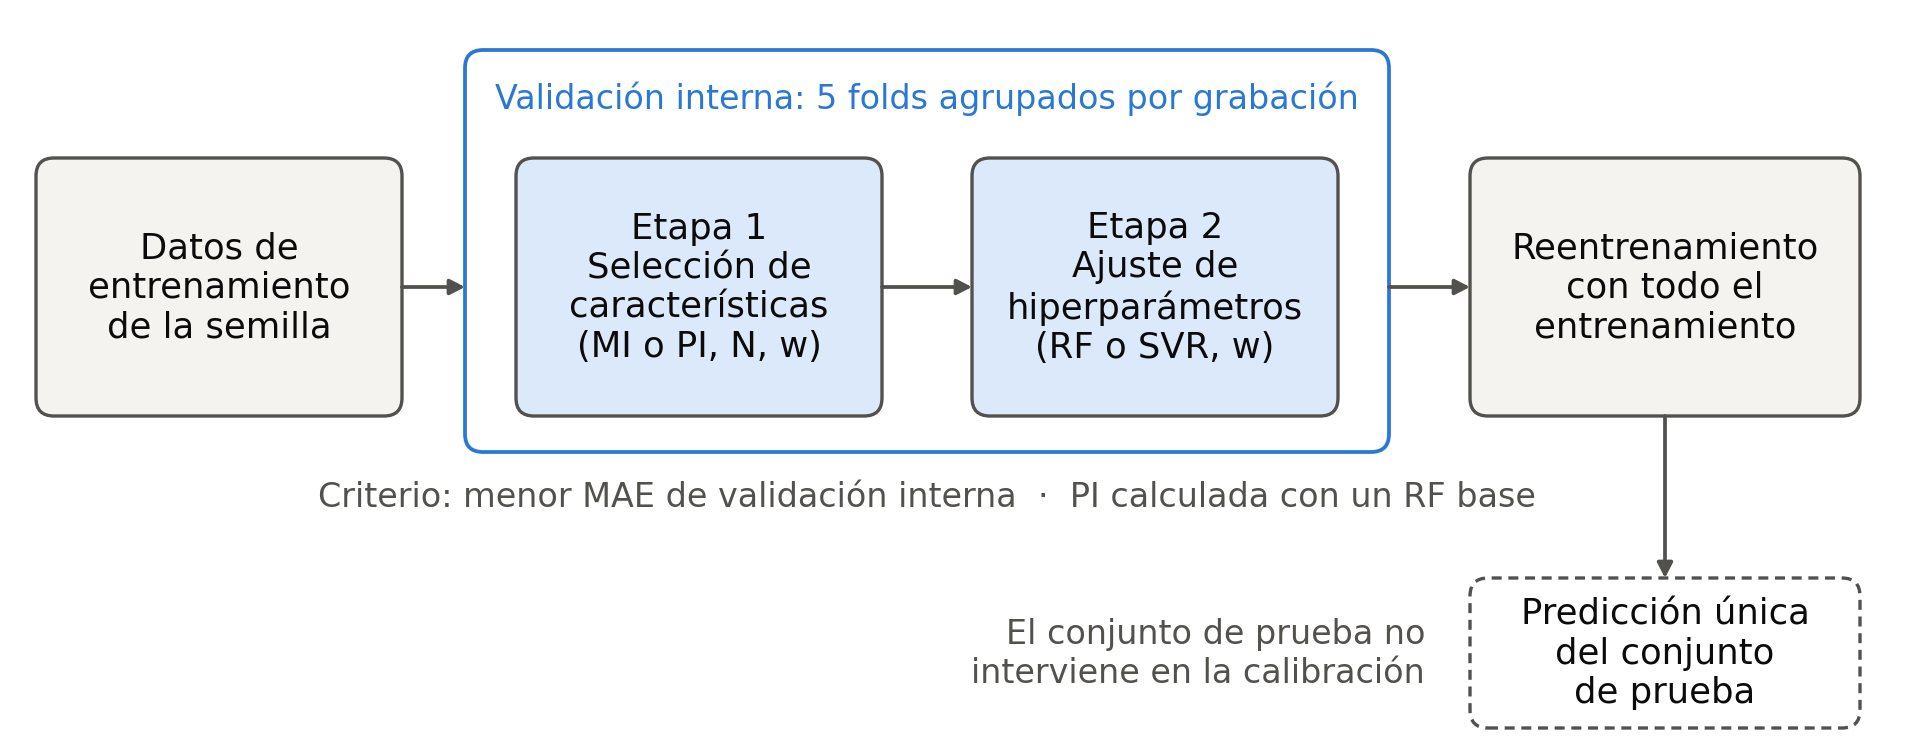
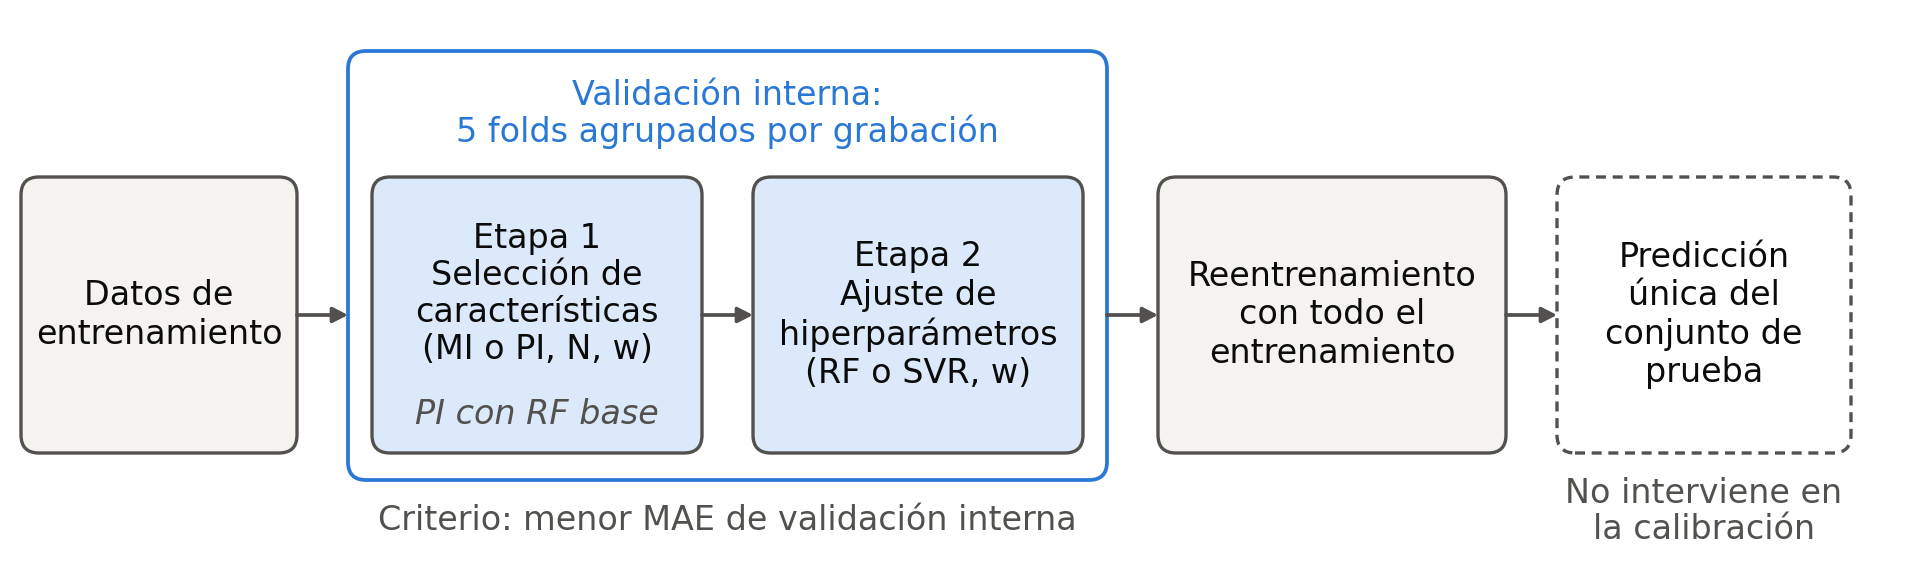
Add final methodology figures and statistical results tables

diff --git a/codigo/figuras_metodologia.py b/codigo/figuras_metodologia.py
@@ -128,10 +128,10 @@ def preprocesamiento(P, fig_dir, adic_dir):
     with _estilo():
         fig, (a1, a2) = plt.subplots(2, 1, figsize=(ANCHO, 3.5), sharex=True, gridspec_kw={"hspace": 0.42})
         a1.plot(t, x_raw, color=INK2, linewidth=0.7)
-        a1.set_title("Señal CSI antes del preprocesamiento", loc="left", color=INK)
+        a1.set_title("Amplitud CSI original", loc="left", color=INK)
         a1.set_ylabel("Amplitud |H|")
         a2.plot(t, e4, color=ACC, linewidth=0.8)
-        a2.set_title("Señal CSI después del preprocesamiento", loc="left", color=INK)
+        a2.set_title("Señal CSI preprocesada y normalizada", loc="left", color=INK)
         a2.set_ylabel("Amplitud\nnormalizada"); a2.set_ylim(-1.15, 1.15); a2.set_yticks([-1, 0, 1])
         a2.set_xlabel("Tiempo (s)"); a2.set_xlim(t[0] - 0.5, t[-1] + 0.5)
         for a in (a1, a2):
@@ -174,62 +174,87 @@ def _validar_sincronizacion(J):
 
 
 def sincronizacion(J, fig_dir):
+    """Una sola ventana (V3). Panel superior: lecturas, interpolacion y criterio sync_ok (+-15 s del paquete
+    central). Panel inferior: construccion de la referencia y_3 (media en los 231 paquetes)."""
     _validar_sincronizacion(J)
-    win = J["ventanas"]; a_x, b_x = J["xlim"]
+    w = J["ventanas"][2]; a_x, b_x = J["xlim"]
+    lt, lh = np.array(J["lecturas_t_s"]), np.array(J["lecturas_hr"])
+    k_near = int(np.argmin(np.abs(lt - w["centro"])))             # lectura real mas cercana al paquete central
+    if not (abs(abs(lt[k_near] - w["centro"]) - w["dist_lectura_centro_s"]) < 1e-9 and w["dist_lectura_centro_s"] <= 15):
+        raise RuntimeError("la lectura mas cercana no cumple el criterio sync_ok")
+    ZONA = "#eef4fc"
     with _estilo():
-        fig, (ax, axw) = plt.subplots(2, 1, figsize=(ANCHO, 3.6), sharex=True,
-                                      gridspec_kw={"height_ratios": [1.15, 1], "hspace": 0.28})
-        ax.plot(J["paquetes_t_s"], J["paquetes_hr_interp"], color="#9a9993", linewidth=1.2, label="Interpolación lineal", zorder=1)
-        ax.scatter(J["lecturas_t_s"], J["lecturas_hr"], s=34, color=INK, zorder=3, label="Lecturas del smartwatch")
+        fig, (ax, axw) = plt.subplots(2, 1, figsize=(ANCHO, 3.4), sharex=True,
+                                      gridspec_kw={"height_ratios": [1.6, 1.05], "hspace": 0.10})
+        # criterio sync_ok (+-15 s alrededor del paquete central): solo en el panel superior
+        ax.axvspan(w["centro"] - 15, w["centro"] + 15, color=ZONA, zorder=0, linewidth=0)
+        for xv in (w["centro"] - 15, w["centro"] + 15):
+            ax.axvline(xv, color=INK2, linewidth=0.7, linestyle=(0, (3, 2)), zorder=1)
+        ax.text(w["centro"], lh.max() + 1.15, "criterio sync_ok: ±15 s", ha="center", va="bottom", fontsize=8, color=INK2,
+                clip_on=False)
+        ax.plot(J["paquetes_t_s"], J["paquetes_hr_interp"], color="#9a9993", linewidth=1.2, label="Interpolación", zorder=2)
+        ax.scatter(lt, lh, s=30, color=INK, zorder=3, label="Lecturas del smartwatch")
+        ax.scatter(lt[k_near], lh[k_near], s=95, facecolor="none", edgecolor=ACC, linewidth=1.3, zorder=4,
+                   label="Más cercana al centro")
+        ax.hlines(w["y"], w["ini"], w["fin"], color=ACC, linewidth=1.8, linestyles=(0, (4, 2)), zorder=3, label="$y_3$")
         ax.set_ylabel("FC (BPM)"); ax.grid(True, axis="y", color=GRID, linewidth=0.6)
-        ax.legend(loc="upper right", ncol=2, handletextpad=0.3, columnspacing=1.2)
-        ylo, yhi = min(J["lecturas_hr"]) - 1.2, max(J["lecturas_hr"]) + 1.6; ax.set_ylim(ylo, yhi)
-        n = len(win)
-        for k, w in enumerate(win):
-            lane = n - k
-            axw.barh(lane, w["fin"] - w["ini"], left=w["ini"], height=0.62, color=ACC_L, edgecolor=ACC, linewidth=0.6)
-            axw.plot([w["centro"]] * 2, [lane - 0.31, lane + 0.31], color=ACC, linewidth=1.4)
-            axw.text(w["centro"] + 0.7, lane, f"$y_{k + 1}$ = {w['y']:.1f}", ha="left", va="center", fontsize=8, color=INK)
-        w3 = win[2]; ly = n - 2 + 0.47              # criterio de +-15 s ilustrado solo en V3
-        axw.annotate("", xy=(w3["centro"] - 15, ly), xytext=(w3["centro"] + 15, ly),
-                     arrowprops={"arrowstyle": "|-|,widthA=0.25,widthB=0.25", "color": INK2, "linewidth": 0.7})
-        axw.text(w3["centro"] + 15.6, ly, "±15 s del centro:\nal menos una lectura", ha="left", va="center", fontsize=8,
-                 color=INK2, linespacing=1.1)
-        axw.set_title("Ventanas CSI y referencia $y_i$ de cada ventana (BPM)", loc="left", fontsize=8.5, color=INK, pad=3)
-        axw.set_yticks(range(1, n + 1)); axw.set_yticklabels([f"V{n - i + 1}" for i in range(1, n + 1)])
-        axw.set_ylim(0.45, n + 0.85); axw.tick_params(axis="y", length=0)
-        axw.spines["left"].set_visible(False)
-        axw.set_xlabel("Tiempo (s)"); axw.set_xlim(a_x, b_x)
         ax.yaxis.set_major_locator(matplotlib.ticker.MultipleLocator(2))
+        ax.set_ylim(lh.min() - 1.0, lh.max() + 1.0)
+        ax.legend(loc="upper right", ncol=2, handletextpad=0.35, columnspacing=1.0, borderaxespad=0.2, handlelength=1.6)
+        # panel inferior: una sola ventana (V3)
+        axw.barh(0, w["fin"] - w["ini"], left=w["ini"], height=0.44, color=ACC_L, edgecolor=ACC, linewidth=0.8, zorder=2)
+        axw.plot([w["centro"]] * 2, [-0.22, 0.22], color=ACC, linewidth=1.6, zorder=3)
+        axw.text((w["ini"] + w["centro"]) / 2, 0, "Ventana V3", ha="center", va="center", fontsize=8, color=INK, zorder=4)
+        axw.text((w["centro"] + w["fin"]) / 2, 0, "231 paquetes", ha="center", va="center", fontsize=8, color=INK, zorder=4)
+        for xx, et in ((w["ini"], "inicio"), (w["centro"], "paquete central"), (w["fin"], "fin")):
+            axw.text(xx, 0.30, et, ha="center", va="bottom", fontsize=8, color=INK2)
+        axw.text(w["centro"], -0.32, "$y_3$ = media de la frecuencia cardíaca interpolada en los 231 paquetes = "
+                 + f"{w['y']:.1f} BPM", ha="center", va="top", fontsize=8, color=INK)
+        axw.set_ylim(-0.85, 0.75); axw.set_yticks([]); axw.spines["left"].set_visible(False)
+        axw.set_xlabel("Tiempo (s)"); axw.set_xlim(a_x, b_x)
         fig.align_ylabels([ax, axw])
         return _guardar(fig, fig_dir, "sincronizacion_csi_smartwatch")
 
 
 # ====================================================================== calibracion
 def diagrama_calibracion(fig_dir):
+    """Fila unica: datos -> [Etapa 1 -> Etapa 2] (validacion interna) -> reentrenamiento -> prediccion unica del test."""
     with _estilo():
-        fig, ax = _lienzo(2.45)
-        bw, bh, yc = 1.22, 0.86, 1.52
-        cx = [0.70, 2.30, 3.82, 5.52]
-        band_x0, band_x1 = cx[1] - bw / 2 - 0.17, cx[2] + bw / 2 + 0.17      # banda de la validacion interna
-        ax.add_patch(FancyBboxPatch((band_x0, yc - bh / 2 - 0.12), band_x1 - band_x0, bh + 0.48,
+        fig, ax = _lienzo(1.90)
+        bh, yc, g = 0.92, 0.88, 0.17                       # alto de caja, centro vertical, hueco de flecha
+        anchos = {"datos": 0.92, "e1": 1.10, "e2": 1.10, "reent": 1.16, "test": 0.98}
+        pad_band = 0.08
+        x = 0.04
+        cx_d = x + anchos["datos"] / 2; x += anchos["datos"] + g
+        band_x0 = x; x += pad_band
+        cx_1 = x + anchos["e1"] / 2; x += anchos["e1"] + g
+        cx_2 = x + anchos["e2"] / 2; x += anchos["e2"] + pad_band
+        band_x1 = x; x += g
+        cx_r = x + anchos["reent"] / 2; x += anchos["reent"] + g
+        cx_t = x + anchos["test"] / 2; x += anchos["test"]
+        if x > ANCHO - 0.03:
+            raise RuntimeError("el diagrama de calibracion excede el ancho de insercion")
+        band_y0, band_y1 = yc - bh / 2 - 0.09, yc + bh / 2 + 0.42
+        ax.add_patch(FancyBboxPatch((band_x0, band_y0), band_x1 - band_x0, band_y1 - band_y0,
                                     boxstyle=f"round,pad=0,rounding_size={R}", facecolor="white", edgecolor=ACC, linewidth=0.9))
-        ax.text((band_x0 + band_x1) / 2, yc + bh / 2 + 0.2, "Validación interna: 5 folds agrupados por grabación",
-                ha="center", va="center", fontsize=8, color=ACC)
-        _caja(ax, cx[0], yc, bw, bh, "Datos de\nentrenamiento\nde la semilla")
-        _caja(ax, cx[1], yc, bw, bh, "Etapa 1\nSelección de\ncaracterísticas\n(MI o PI, N, w)", fill=ACC_L)
-        _caja(ax, cx[2], yc, bw, bh, "Etapa 2\nAjuste de\nhiperparámetros\n(RF o SVR, w)", fill=ACC_L)
-        _caja(ax, cx[3], yc, 1.30, bh, "Reentrenamiento\ncon todo el\nentrenamiento")
-        _flecha(ax, (cx[0] + bw / 2, yc), (band_x0, yc))
-        _flecha(ax, (cx[1] + bw / 2, yc), (cx[2] - bw / 2, yc))
-        _flecha(ax, (band_x1, yc), (cx[3] - 0.65, yc))
-        ax.text((band_x0 + band_x1) / 2, yc - bh / 2 - 0.27,
-                "Criterio: menor MAE de validación interna  ·  PI calculada con un RF base",
-                ha="center", va="center", fontsize=8, color=INK2)
-        _caja(ax, cx[3], 0.30, 1.30, 0.50, "Predicción única\ndel conjunto\nde prueba", fill="white", dashed=True)
-        _flecha(ax, (cx[3], yc - bh / 2), (cx[3], 0.30 + 0.25))
-        ax.text(cx[3] - 0.80, 0.30, "El conjunto de prueba no\ninterviene en la calibración", ha="right", va="center",
-                fontsize=8, color=INK2)
+        ax.text((band_x0 + band_x1) / 2, yc + bh / 2 + 0.21, "Validación interna:\n5 folds agrupados por grabación",
+                ha="center", va="center", fontsize=8, color=ACC, linespacing=1.1)
+        _caja(ax, cx_d, yc, anchos["datos"], bh, "Datos de\nentrenamiento", fs=8)
+        _caja(ax, cx_1, yc, anchos["e1"], bh, "", fill=ACC_L, fs=8)
+        ax.text(cx_1, yc + 0.07, "Etapa 1\nSelección de\ncaracterísticas\n(MI o PI, N, w)", ha="center", va="center",
+                fontsize=8, color=INK, linespacing=1.15)
+        ax.text(cx_1, yc - bh / 2 + 0.13, "PI con RF base", ha="center", va="center", fontsize=8, color=INK2, style="italic")
+        _caja(ax, cx_2, yc, anchos["e2"], bh, "Etapa 2\nAjuste de\nhiperparámetros\n(RF o SVR, w)", fill=ACC_L, fs=8)
+        _caja(ax, cx_r, yc, anchos["reent"], bh, "Reentrenamiento\ncon todo el\nentrenamiento", fs=8)
+        _caja(ax, cx_t, yc, anchos["test"], bh, "Predicción\núnica del\nconjunto de\nprueba", fill="white", dashed=True, fs=8)
+        ax.text(cx_t, yc - bh / 2 - 0.08, "No interviene en\nla calibración", ha="center", va="top", fontsize=8, color=INK2,
+                linespacing=1.1)
+        ax.text((band_x0 + band_x1) / 2, band_y0 - 0.08, "Criterio: menor MAE de validación interna", ha="center",
+                va="top", fontsize=8, color=INK2)
+        _flecha(ax, (cx_d + anchos["datos"] / 2, yc), (band_x0, yc))
+        _flecha(ax, (cx_1 + anchos["e1"] / 2, yc), (cx_2 - anchos["e2"] / 2, yc))
+        _flecha(ax, (band_x1, yc), (cx_r - anchos["reent"] / 2, yc))
+        _flecha(ax, (cx_r + anchos["reent"] / 2, yc), (cx_t - anchos["test"] / 2, yc))
         return _guardar(fig, fig_dir, "diagrama_calibracion")
 
 

diff --git a/resultados/tabla_mae_literatura.md b/resultados/tabla_mae_literatura.md
@@ -1,0 +1,14 @@
+**Tabla X. Comparación del error de estimación de frecuencia cardíaca con trabajos relacionados**
+
+| Estudio | Dataset / hardware | Participantes | Método | Escenario de evaluación | MAE reportado (BPM) | Observación de comparabilidad |
+|---|---|---|---|---|---|---|
+| Alzaabi et al. (2025) | Datos propios en domicilios; dos ESP32-DevKitC-VE | 12 adultos ≥ 60 años; 8 mediciones emparejadas de 7 voluntarios | Procesamiento de señal con wavelets (DWT y CWT), sin aprendizaje supervisado | Validación por sesión frente a un sensor PPG; sin partición de entrenamiento y prueba | 9.26 | Otro hardware y otra población; error por sesión de medición y sin modelo entrenado |
+| Kocheta et al. — PulseFi (2025) | eHealth CSI; Raspberry Pi 4B con Nexmon | 118 | Red LSTM | Partición 64/16/20 % en entrenamiento, validación y prueba; promedio de 3 repeticiones. | 0.27 ± 0.03 (ventana de 10 s); 0.17 ± 0.01 (ventana de 30 s) | Mismo dataset, pero distinto protocolo de partición, modelo, representación y número de participantes. |
+| Esta tesis — RF | eHealth CSI; Raspberry Pi 4B (54 subportadoras activas) | 125 | Random Forest con regresión residual | Grabaciones nuevas de participantes conocidos; partición por grabación dentro de cada participante; 33 corridas | 8.406 ± 0.284 | Media ± DE de 33 corridas; ventanas de aproximadamente 30 s |
+| Esta tesis — SVR | eHealth CSI; Raspberry Pi 4B (54 subportadoras activas) | 125 | SVR con kernel RBF y regresión residual | Mismo protocolo que RF; 33 corridas | 8.384 ± 0.298 | Media ± DE de 33 corridas; ventanas de aproximadamente 30 s |
+
+*Nota.* Los valores se presentan como referencia y no corresponden a condiciones experimentales equivalentes. Los estudios difieren en hardware, número de participantes, estrategia de partición, duración de las ventanas, representación de la señal y método de estimación. Por ello, los valores de MAE no deben interpretarse como una comparación directa de desempeño.
+
+*Fuentes verificadas.* Alzaabi, Saied y Arslan (2025), IEEE Journal of Translational Engineering in Health and Medicine, doi:10.1109/JTEHM.2025.3624469 (texto completo en PMC12599888). Kocheta, Bhatia y Obraczka (2025), arXiv:2510.24744v1, Tabla I (eHealth).
+
+*No incluidos hasta disponer de fuente primaria verificable:* Sazid et al. (2024) y Gouveia et al. (2024).

diff --git a/README.md b/README.md
@@ -86,12 +86,16 @@ El script lee los datos entregados (no entrena), escribe `resultados/metricas_po
 |---|---|---|
 | `diagrama_proceso_general.png` | Metodología | Flujo completo de la metodología. |
 | `preprocesamiento_antes_despues.png` | Metodología | Efecto del preprocesamiento sobre una subportadora CSI real. |
-| `sincronizacion_csi_smartwatch.png` | Metodología | Sincronización de las lecturas del smartwatch y construcción de y_i. |
+| `sincronizacion_csi_smartwatch.png` | Metodología | Sincronización de las lecturas del smartwatch en una ventana (V3): criterio sync_ok y construcción de y_i. |
 | `diagrama_calibracion.png` | Experimentación | Procedimiento secuencial de selección de características e hiperparámetros. |
 
 Las figuras metodológicas se dibujan a su tamaño de inserción (16 cm de ancho; fuentes de 8–9 pt). La grabación de
 ejemplo (participante 002, posición 1) se eligió por el número mediano de lecturas del reloj, sin mirar la señal CSI.
-La tabla de calibración está en `resultados/tabla_calibracion.md` y los pies de figura, en `figuras/pies_de_figura.md`.
+Tablas de referencia para la tesis: calibración de características e hiperparámetros
+(`resultados/tabla_calibracion.md`) y comparación del MAE con trabajos relacionados (`resultados/tabla_mae_literatura.md`).
+Los pies de figura están en `figuras/pies_de_figura.md`.
+
+- `resultados/tabla_metricas_finales.md`: resumen de MAE, RMSE y coeficiente de Pearson para RF, SVR, B1 y B0 en las 33 corridas experimentales.
 
 ### Figuras de resultados (`figuras/`)
 

diff --git a/figuras/pies_de_figura.md b/figuras/pies_de_figura.md
@@ -8,14 +8,12 @@ estimación y evaluación de la frecuencia cardíaca.
 
 **preprocesamiento_antes_despues.png**
 Ejemplo del efecto del preprocesamiento sobre una subportadora CSI. Se muestra la amplitud original y la señal obtenida
-después de aplicar detrend lineal, filtrado de Hampel, filtro Butterworth pasabanda y normalización min-max. La
-subportadora fue seleccionada automáticamente por el criterio de energía utilizado en el pipeline. La señal procesada no
-representa directamente la frecuencia cardíaca.
+después de aplicar detrend lineal, filtrado de Hampel, filtro Butterworth pasabanda y normalización min-max.
 
 **sincronizacion_csi_smartwatch.png**
-Sincronización temporal entre las mediciones CSI y la referencia cardíaca. Las lecturas del smartwatch se interpolan en
-las marcas temporales de los paquetes CSI y cada ventana recibe como referencia y_i la media de los valores interpolados
-correspondientes a sus 231 paquetes. Se conservan únicamente las ventanas con al menos una lectura real del smartwatch a
+Ejemplo de sincronización temporal entre las mediciones CSI y la referencia cardíaca. Las lecturas del smartwatch se
+interpolan en las marcas temporales de los paquetes CSI. Para cada ventana, la referencia y_i corresponde a la media de
+los valores interpolados de sus 231 paquetes. La ventana se conserva si existe al menos una lectura real del smartwatch a
 15 s o menos del paquete central.
 
 ## Experimentación

diff --git a/resultados/tabla_metricas_finales.md b/resultados/tabla_metricas_finales.md
@@ -1,0 +1,12 @@
+**Tabla X. Resultados de los modelos y líneas base en las 33 corridas**
+
+| Método | MAE (BPM) | RMSE (BPM) | Pearson r |
+|---|---|---|---|
+| Random Forest (RF) | 8.406 ± 0.284 | 10.578 ± 0.394 | 0.719 ± 0.031 |
+| SVR | 8.384 ± 0.298 | 10.621 ± 0.412 | 0.717 ± 0.032 |
+| B1 (media del participante) | 8.887 ± 0.291 | 11.090 ± 0.390 | 0.686 ± 0.032 |
+| B0 (media global) | 12.196 ± 0.321 | 15.159 ± 0.450 | No definido |
+
+*Nota.* Los valores corresponden a la media ± desviación estándar de las 33 corridas experimentales. El coeficiente de Pearson no se reporta para B0 debido a que genera una predicción constante.
+
+*Fuente.* Calculado a partir de `resultados/metricas_por_semilla.csv` (métricas por semilla sobre las ventanas de prueba de cada corrida).
